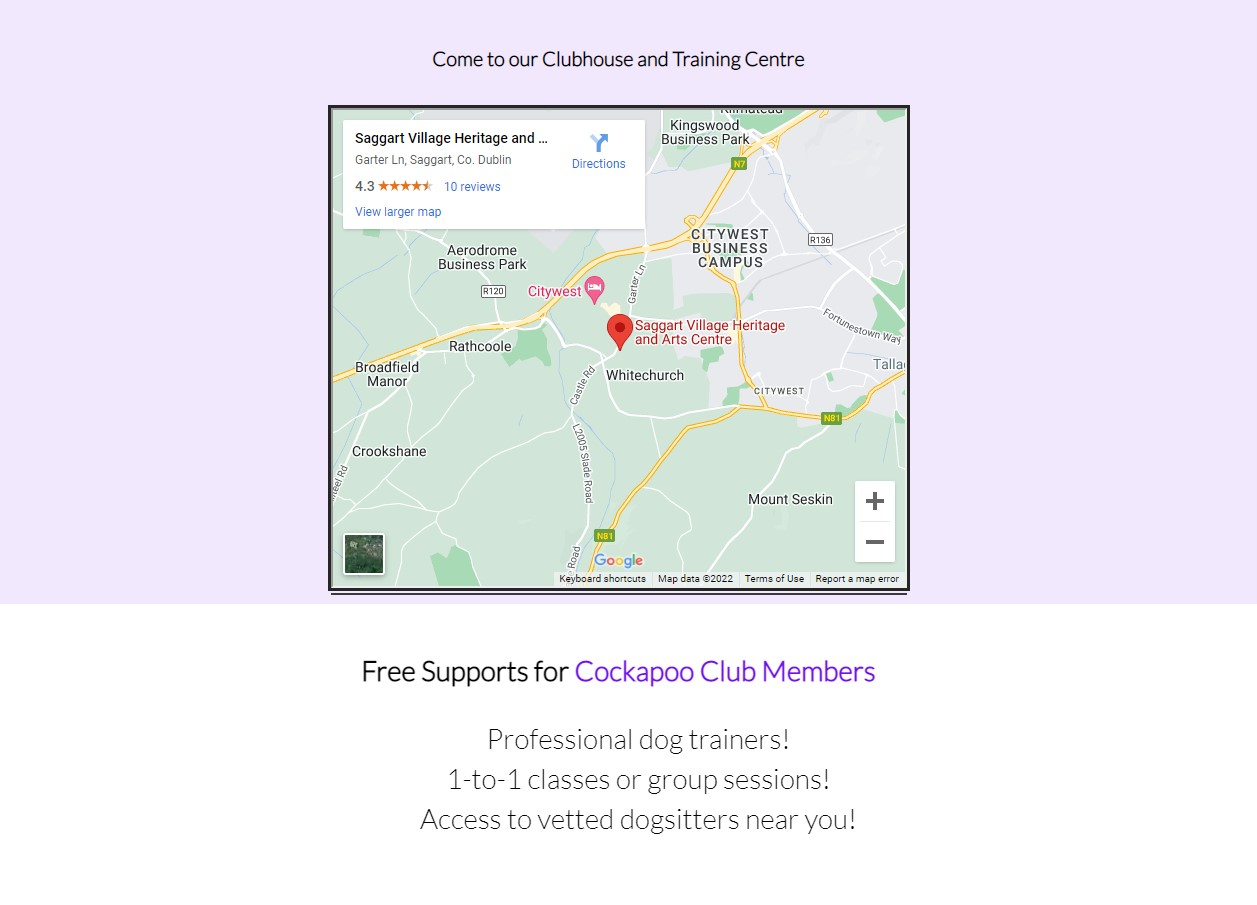
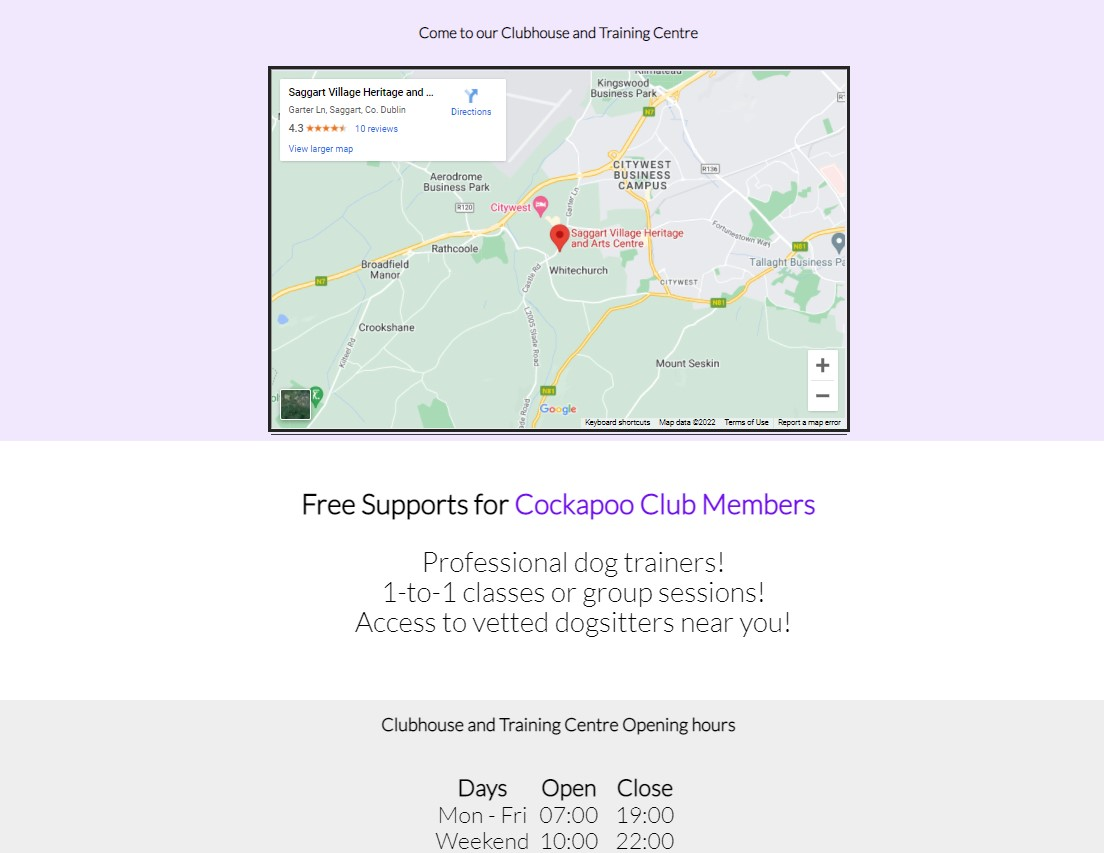
update structure of README file

Changed region(s): [[0.2156, 0.0305, 0.7699, 0.762], [0.3388, 0.7925, 0.6775, 1.0]]

diff --git a/README.md b/README.md
@@ -61,7 +61,11 @@ The webiste consists of five webapges:
     
        - [Furry Fun Foto Gallery](https://samobrienolinger.github.io/Cockapoo-Club/furry-fun-foto-gallery.html#jump-to-fffg)   
 
-   - After these main pieces of content, there is an area with a map and information about the clubhouse and training centre, as well as another call to action to join Cockapoo Club with two hyperlinked pieces of text to give users even more opportunities to visit the Join page and submit their contact details. A chance to win a prize is also available and aims to further encourage new members to join. The value of this content to the user is the list it provides of the main benefits to becoming a new member. An embedded map to the clubhouse and training centre is also provided for users to locate Cockapoo Club's premises and encourage them to visit and socialise with others in this special community, making this project stand out from other simalr websites providing infomration about cCoakapoos and other pets:
+   - After these main pieces of content, there is an area with a map and information about the clubhouse and training centre, as well as another call to action to join Cockapoo Club with two hyperlinked pieces of text to give users even more opportunities to visit the [Join](#join-page) page and submit their contact details. A chance to win a prize is also available on the Join page and aims to further encourage new members to join.
+   
+   - An embedded map to the clubhouse and training centre is also provided for users to locate Cockapoo Club's premises along with opening times for the clubhouse and training centre. 
+   
+   - A list of free suports are also outlined to encourage users to visit and socialise with others in this special community, making this project stand out from other simalr websites that may provide similar information about Coakapoos and other pets. The value of this content to the user is the list it provides of the main benefits to becoming a new member and particapting in person
 
        ![clubhouse map](assets/README.md-images/README.md-clubhouse-training-centre-map.jpg)
 
@@ -111,6 +115,16 @@ The webiste consists of five webapges:
 
    - The icons for the footer  were taken from [Font Awesome](https://fontawesome.com/)
 
+## **Deployment**
+
+- The site was deployed to GitHub pages using the following steps:
+
+  - In the GitHub repository, navigate to the Settings tab 
+  - From the source section drop-down menu, select the Master Branch
+  - Once the master branch has been selected, the page will be automatically refreshed with a detailed ribbon display to indicate the successful deployment. 
+
+  - The live link can be found [Here](https://samobrienolinger.github.io/Cockapoo-Club/index.html) 
+
 ## **Features Left to Implement**
 
 - Two other ideas for future features include: 
@@ -142,7 +156,7 @@ The webiste consists of five webapges:
       - Desktop 
       screenshot
       
-- __Unfixed Bugs__
+## **Unfixed Bugs**
 
     - There seems to be a minor difference between how the background image renders in the join-form.html page via (A) the Gitpod remote explorer [Here](https://8000-samobrienolinge-cockapoo-53eu3ighye6.ws-eu38.gitpod.io/join-form.html#jump-to-jcc) and (B) the same deployed webapge [Here](https://samobrienolinger.github.io/Cockapoo-Club/join-form.html#jump-to-jcc) in Google Chrome (please see images below). Microsoft Edge and Mozilla browsers render as normal/image A below.   
 
@@ -156,24 +170,15 @@ The webiste consists of five webapges:
 
 
 
-### **Credits**
+## **Credits**
 
 As a starting point I began with the html and css structure used in Code Institute's Love Running Project. I did this mainly because I thought the hero image with zoom was a great way to engage a new user. I also wanted to have a feature that allowed users to 'join' a club, so the Love Running project provided a good blueprint for adapting to the concpet of a Cockapoo Club community.  
 
-### **Deployment**
-
-- The site was deployed to GitHub pages using the following steps:
-
-  - In the GitHub repository, navigate to the Settings tab 
-  - From the source section drop-down menu, select the Master Branch
-  - Once the master branch has been selected, the page will be automatically refreshed with a detailed ribbon display to indicate the successful deployment. 
-
-  - The live link can be found [Here](https://samobrienolinger.github.io/Cockapoo-Club/index.html) 
 
 
-## **Credits**
 
- - **Content**
+
+### **Content**
 
    - information and text was gathered from the following websites:
 
@@ -183,7 +188,7 @@ As a starting point I began with the html and css structure used in Code Institu
       - https://youtu.be/Fe-sa9mHcxI 
 
 
-    - Styling and instructions on how to construct form validation on the join-form.html page was based on the form found in the Code Institute Love Running Project module: [Signup Form: Challenge 1](https://learn.codeinstitute.net/courses/course-v1:CodeInstitute+LR101+2021_T1/courseware/4a07c57382724cfda5834497317f24d5/4d85cd1a2c57485abbd8ccec8c00732c/?child=first). 
+  - Styling and instructions on how to construct form validation on the join-form.html page was based on the form found in the Code Institute Love Running Project module: [Signup Form: Challenge 1](https://learn.codeinstitute.net/courses/course-v1:CodeInstitute+LR101+2021_T1/courseware/4a07c57382724cfda5834497317f24d5/4d85cd1a2c57485abbd8ccec8c00732c/?child=first). 
 
 - The icons in the footer were taken from [Font Awesome](https://fontawesome.com/)
 
